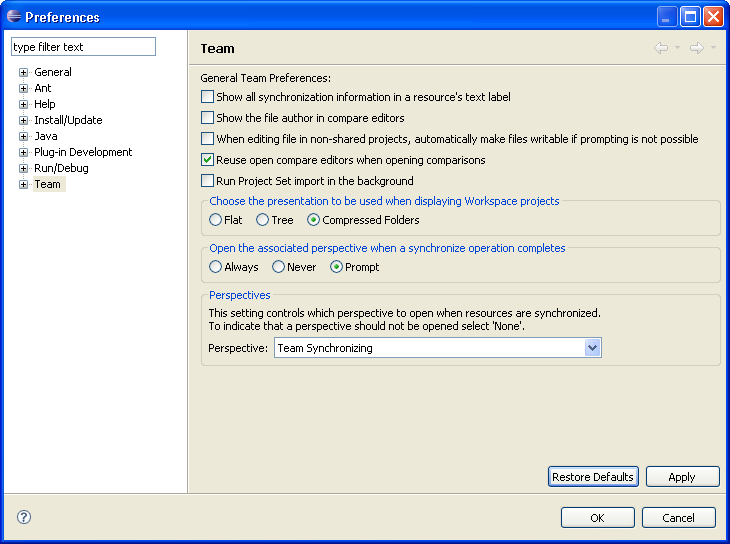
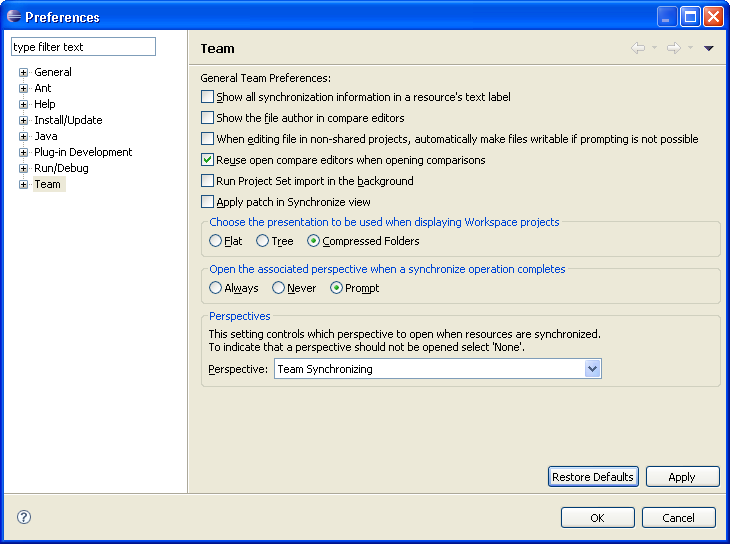
bug 311555: Updates needed to the Team/Compare docs

Changed region(s): [[0.2712, 0.3438, 0.9945, 0.7188], [0.874, 0.0625, 0.9644, 0.0938], [0.7233, 0.3438, 0.7534, 0.375]]

diff --git a/bundles/org.eclipse.platform.doc.user/tasks/tasks-68c.htm b/bundles/org.eclipse.platform.doc.user/tasks/tasks-68c.htm
@@ -2,7 +2,7 @@
 <html lang="en">
 <HEAD>
 
-<meta name="copyright" content="Copyright (c) IBM Corporation and others 2000, 2009. This page is made available under license. For full details see the LEGAL in the documentation book that contains this page." >
+<meta name="copyright" content="Copyright (c) IBM Corporation and others 2000, 2010. This page is made available under license. For full details see the LEGAL in the documentation book that contains this page." >
 
 <META HTTP-EQUIV="Content-Type" CONTENT="text/html; charset=ISO-8859-1">
 <META HTTP-EQUIV="Content-Style-Type" CONTENT="text/css">
@@ -69,8 +69,11 @@
 <ol>
   <li>Select the resource that the patch was generated on. This resource should 
     contain the same file revisions as the line-up on which the patch was generated.</li>
-  <li>From the pop-up menu, select <b>Team &gt; Apply Patch...</b>. The Resource 
-    Patcher wizard will open.</li>
+  <li>From the pop-up menu, select <b>Team &gt; Apply Patch...</b>. The Apply 
+    Patch wizard will open.<br><br>
+    This can also be achieved by copying the patch contents to the clipboard 
+    and pasting it directly into the Package Explorer view by choosing <b>Edit &gt; Paste</b>. 
+    In this case, you can skip the next step.</li>
   <li>Indicate where the patch is to be found:
     <ol type="a">
       <li><i>File</i> - the patch is in a file on the local file system. Either 
@@ -80,10 +83,15 @@
         is safer to use a file based patch. Line endings may not be handled properly 
         if the clipboard is used and the patch was generated on a different platform 
         (i.e. Linux vs. Windows).</li>
+       <li><i>URL</i> - the patch is located under the given URL. <b>Warning:</b>
+       Make sure the URL you entered is valid and contains a proper patch. 
+       Otherwise you won't be able to apply it. Also, please keep in mind that 
+       applying a patch directly from a URL may take some time.
+       </li> 
        <li><i>Workspace</i> - the patch has been saved somewhere in the workspace.</li>
     </ol> Click <b>Next</b> to see the effect of applying the patch.</li>
   <li>
-  <b>Optional Step</b>: <i>this step only applies if you have a patch rooted at the project or selection level - workspace
+  <b>Optional Step</b>: <i>this step applies, only if you have a patch rooted at the project or selection level - workspace
   rooted patches will automatically proceed to the Patch Preview Page.</i> In the Patch Target Specification page, you should
   select the resource that is to act as the root of the patch.
   </li>
@@ -111,6 +119,50 @@
     now contain outgoing changes for each file modified by the patch.</li>
 </ol>
 
+<p>Patches can be applied by synchronizing them with a local content</p>   
+
+<H3>To synchronize with a patch:</H3>
+<ol>
+	<li>
+  		From the Team Synchronizing perspective select the <strong>Synchronize...</strong> 
+		action from the Synchronize <img src="../images/synch_participants.png" alt="" border="0" > 
+		button drop down.
+	</li>
+	<li>
+		Select <strong>Synchronize with Patch</strong> from the list of possible synchronization types 
+		and click <strong>Next</strong>.
+	</li>
+	<li>Indicate where the patch is to be found:
+    <ol type="a">
+      <li><i>File</i> - the patch is in a file on the local file system. Either 
+        type in the full path to the file or use the <b>Browse...</b> button to 
+        find the file.</li>
+      <li><i>Clipboard</i> - the patch is on the clipboard. <b>Warning:</b> It 
+        is safer to use a file based patch. Line endings may not be handled properly 
+        if the clipboard is used and the patch was generated on a different platform 
+        (i.e. Linux vs. Windows).</li>
+       <li><i>URL</i> - the patch is located under the given URL. <b>Warning:</b>
+       Make sure the URL you entered is valid and contains a proper patch. 
+       Otherwise you won't be able to apply the patch. Also, please keep in mind that 
+       applying a patch directly from a URL may take some time.
+       </li>
+       <li><i>Workspace</i> - the patch has been saved somewhere in the workspace.</li>
+    </ol> Click <b>Next</b> to see the effect of applying the patch.
+    </li>
+	<li>
+		<b>Optional Step</b>: <i>this step applies, only if you have a patch rooted at the project or selection level - workspace
+		rooted patches will automatically proceed to the Patch Preview Page.</i> In the Patch Target Specification page, you should
+		select the resource that is to act as the root of the patch.
+	</li>
+	<li>
+		<b>Optional Step</b>: <i>this step applies, only if your patch refers to projects that are inaccessible - if all projects from the patch are present in the workspace
+		and are open, this page will be skipped.</i> In the Inaccessible Projects page you can open any closed projects. Moreover, details about non-existing projects will be displayed.
+		Projects that are closed or do not exist in the workspace cannot be patched.
+	</li>
+	<li>
+		On the final page, click <b>Finish</b> to preview patch changes in the Synchronize view.
+	</li>
+</ol>
 
 <H3>Options for applying a patch</H3>
 
@@ -144,15 +196,21 @@
    	  		Use the <i>Reverse patch</i> option for patch files that already have been applied to your
    	  		workspace. This option is also useful to undo or redo a patch.
   		</li>
-  		
+
   		<li>
   			For Workspace patches, you can select another project in your workspace
   			to apply the patch changes to. To do this, select a project in the top pane and select <b>Move</b> from the context menu. This will launch a dialog with a list of all available projects in your
   			workspace. Select a project and click <b>OK</b>; the patch changes will be applied to your selected project.
   		</li>
+
   		<li>
-  		Use the <i>Show Excluded</i> 
-  		option to show the hunks which you have already selected to not include in the patch.</li>
+			Use the <i>Show Excluded</i> option to show the hunks which you have already selected to not include in the patch.
+		</li>
+
+		<li>
+			When synchronizing with a patch, the options above are available in the Synchronize View's pull down menu.
+			You can also switch between available models to get extra information about the changes being applied.
+  		</li>
 
    	</ol>
 
@@ -162,11 +220,13 @@
 </p>
 
 <p><img border="0" src="../images/ngrelt.png" alt="Related tasks" ><br>
-<a href="tasks-68.htm">Comparing resources</a>
+<a href="tasks-68.htm">Comparing resources</a><br>
+<a href="tasks-115.htm">Synchronizing with the repository</a>
 </p>
 
 
 <p><img border="0" src="../images/ngrelr.png" alt="Related reference" ><br>
+<a href="../reference/ref-19.htm">Team</a>
 <a href="../reference/ref-47.htm">CVS</a>
 </p>
 

diff --git a/bundles/org.eclipse.platform.doc.user/reference/ref-19.htm b/bundles/org.eclipse.platform.doc.user/reference/ref-19.htm
@@ -1,7 +1,7 @@
 <!DOCTYPE HTML PUBLIC "-//W3C//DTD HTML 4.0 Transitional//EN"><html lang="en">
 <HEAD>
 
-<meta name="copyright" content="Copyright (c) IBM Corporation and others 2000, 2005. This page is made available under license. For full details see the LEGAL in the documentation book that contains this page." >
+<meta name="copyright" content="Copyright (c) IBM Corporation and others 2000, 2010. This page is made available under license. For full details see the LEGAL in the documentation book that contains this page." >
 
 <META HTTP-EQUIV="Content-Type" CONTENT="text/html; charset=ISO-8859-1">
 <META HTTP-EQUIV="Content-Style-Type" CONTENT="text/css">
@@ -65,6 +65,11 @@ preferences page contains options which
       <TD COLSPAN="1" valign="top" align="left">Use this option to run Project Set import in the background.</TD>
       <TD COLSPAN="1" valign="top" align="left">Disabled</TD>
     </TR>         
+  	<TR> 
+      <TD COLSPAN="1" valign="top" align="left">Apply Patch in Synchronize view</TD>
+      <TD COLSPAN="1" valign="top" align="left">Use this option to preview patch changes in the Synchronize view.</TD>
+      <TD COLSPAN="1" valign="top" align="left">Disabled</TD>
+    </TR>
     <TR> 
       <TD COLSPAN="1" valign="top" align="left">Choose the presentation to be used when displaying 
         Workspace projects</TD>
